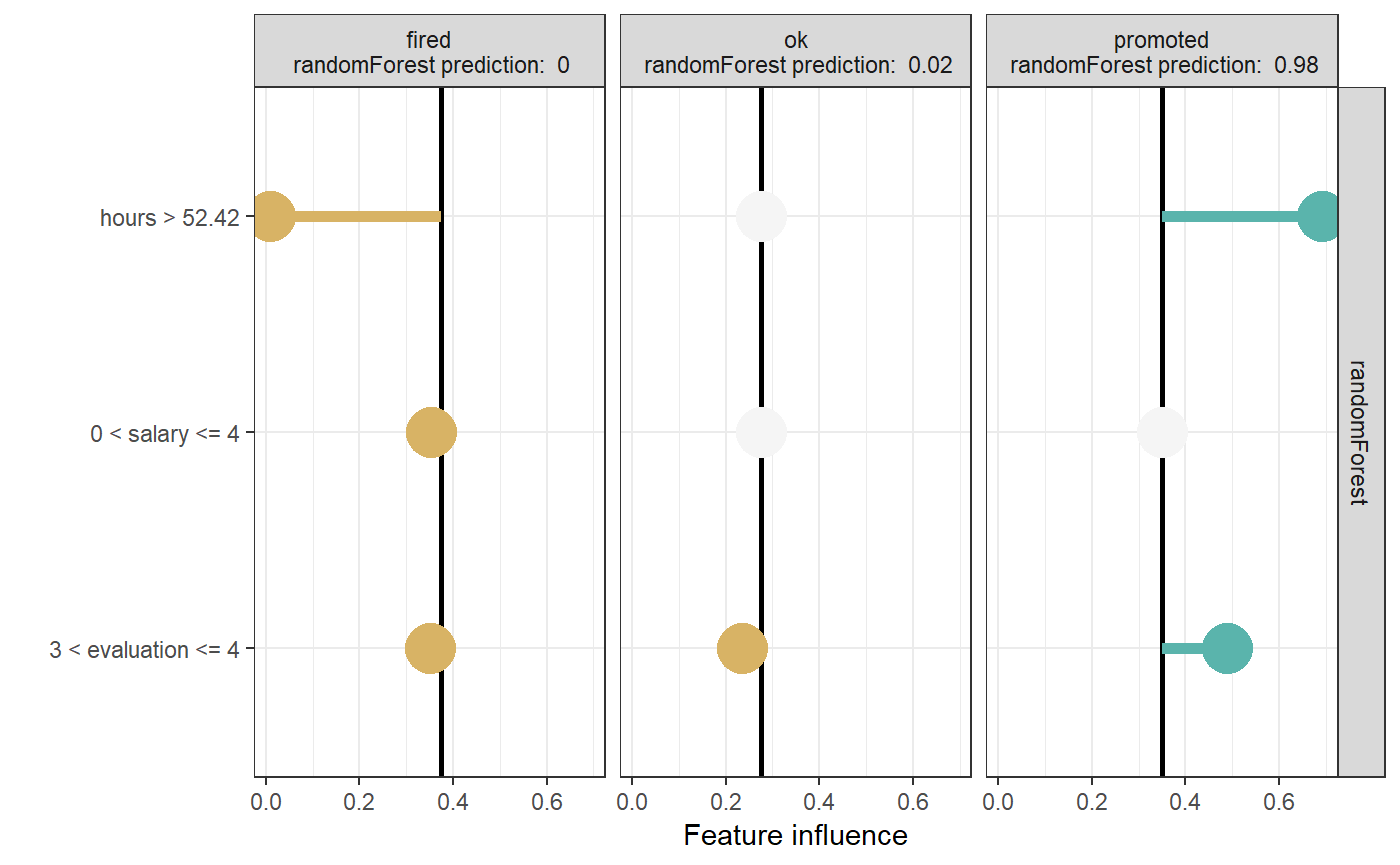
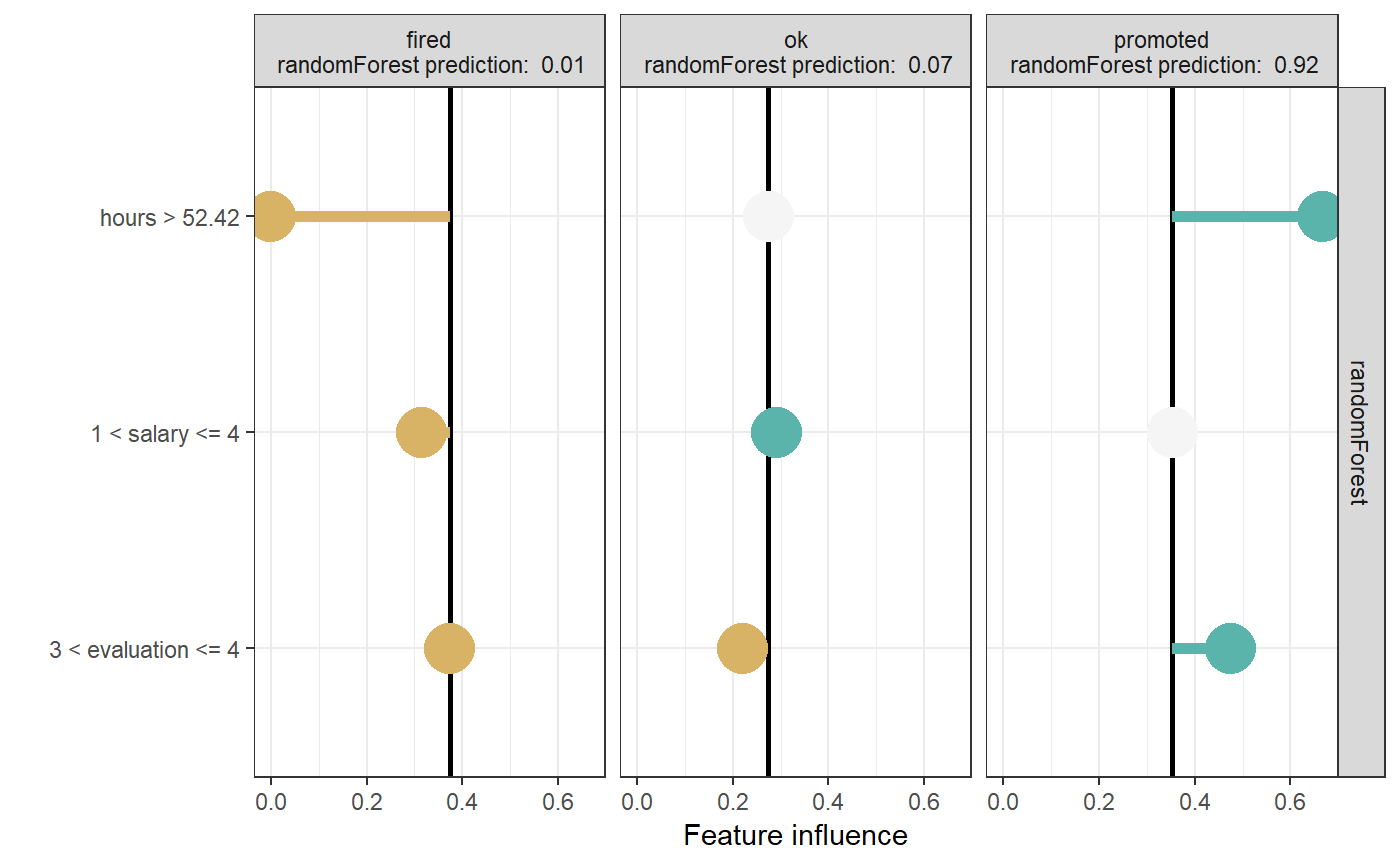
adds minor changes  to docs and plot function

diff --git a/docs/articles/regression_example.html b/docs/articles/regression_example.html
@@ -92,18 +92,19 @@
     
     
 <p>This vignette shows how <a href="https://github.com/ModelOriented/localModel"><code>localModel</code></a> package can be used to explain regression models. We will use the <code>apartments</code> dataset from <a href="https://github.com/ModelOriented/DALEX2"><code>DALEX2</code></a> package. For more information about the dataset, please refer to the <a href="https://pbiecek.github.io/DALEX_docs/">Gentle introduction to DALEX</a>.</p>
-<p>We will use <a href="https://github.com/ModelOriented/localModel"><code>localModel</code></a> and <a href="https://github.com/ModelOriented/DALEX2"><code>DALEX2</code></a> packages, random forest from <code>randomForest</code> package will serve as an example model, and linear regression as a simple model for comparison.</p>
+<p>We will need <a href="https://github.com/ModelOriented/localModel"><code>localModel</code></a> and <a href="https://github.com/ModelOriented/DALEX2"><code>DALEX2</code></a> packages. Random forest from <code>randomForest</code> package will serve as an example model, and linear regression as a simple model for comparison.</p>
 <div class="sourceCode"><pre class="sourceCode r"><code class="sourceCode r"><span class="kw">library</span>(DALEX2)
 <span class="kw">library</span>(localModel)
 <span class="kw">library</span>(randomForest)
 <span class="kw">data</span>(<span class="st">'apartments'</span>)
-<span class="kw">data</span>(<span class="st">'apartmentsTest'</span>)
+<span class="kw">data</span>(<span class="st">'apartments_test'</span>)
+<span class="kw">set.seed</span>(<span class="dv">69</span>)
 mrf &lt;-<span class="st"> </span><span class="kw">randomForest</span>(m2.price <span class="op">~</span>., <span class="dt">data =</span> apartments, <span class="dt">ntree =</span> <span class="dv">50</span>)
 mlm &lt;-<span class="st"> </span><span class="kw">lm</span>(m2.price <span class="op">~</span>., <span class="dt">data =</span> apartments)</code></pre></div>
 <p>First, we need to create an explainer object, using the <code>explain</code> function. We will explain the prediction for fifth observation in the test dataset.</p>
-<div class="sourceCode"><pre class="sourceCode r"><code class="sourceCode r">explainer &lt;-<span class="st"> </span><span class="kw">explain</span>(<span class="dt">model =</span> mrf,
+<div class="sourceCode"><pre class="sourceCode r"><code class="sourceCode r">explainer &lt;-<span class="st"> </span>DALEX2<span class="op">::</span><span class="kw"><a href="http://www.rdocumentation.org/packages/DALEX2/topics/explain">explain</a></span>(<span class="dt">model =</span> mrf,
                      <span class="dt">data =</span> apartments_test[, <span class="op">-</span><span class="dv">1</span>])
-explainer2 &lt;-<span class="st"> </span><span class="kw">explain</span>(<span class="dt">model =</span> mlm, 
+explainer2 &lt;-<span class="st"> </span>DALEX2<span class="op">::</span><span class="kw"><a href="http://www.rdocumentation.org/packages/DALEX2/topics/explain">explain</a></span>(<span class="dt">model =</span> mlm, 
                       <span class="dt">data =</span> apartments_test[, <span class="op">-</span><span class="dv">1</span>])
 new_observation &lt;-<span class="st"> </span>apartments_test[<span class="dv">5</span>, <span class="op">-</span><span class="dv">1</span>]
 new_observation
@@ -114,7 +115,7 @@ new_observation
                                         <span class="dt">size =</span> <span class="dv">500</span>, <span class="dt">seed =</span> <span class="dv">17</span>)
 model_lok2 &lt;-<span class="st"> </span><span class="kw"><a href="../reference/individual_surrogate_model.html">individual_surrogate_model</a></span>(explainer2, new_observation,
                                          <span class="dt">size =</span> <span class="dv">500</span>, <span class="dt">seed =</span> <span class="dv">17</span>)</code></pre></div>
-<p>First, local interpretable features are created. Numerical features are discretized by using decision tree to model relationship between the feature and the corresponding Ceteris Paribus profile. Categorical features are also discretized by merging levels using the marginal relationship between the feature and the model response. Then, new dataset is simulated by switching a random number of interpretable inputs in the explained instance. This procedure mimics “graying out” areas (superpixels) in the original LIME method. LASSO regression model is fitted to the model response for these new observations, which makes the final explanations sparse and thus readable.</p>
+<p>First, local interpretable features are created. Numerical features are discretized by using decision tree to model relationship between the feature and the corresponding Ceteris Paribus profile. Categorical features are also discretized by merging levels using the marginal relationship between the feature and the model response. Then, new dataset is simulated by switching a random number of interpretable inputs in the explained instance. This procedure mimics “graying out” areas (superpixels) in the original LIME method. LASSO regression model is fitted to the model response for these new observations, which makes the final explanations sparse and thus readable. More details can be found in the <em>Methodology behind localModel package</em> vignette.</p>
 <p>The explanation can be plotted using generic <code>plot</code> function. The plot shows interpretable features and weights associated with them, starting at the model intercept. Negative weights are associated with features that decrease the apartment price, while positive weights increase it. We can plot explanation for two or more models together by passing several local explainer to <code>plot</code> function.</p>
 <div class="sourceCode"><pre class="sourceCode r"><code class="sourceCode r"><span class="kw">plot</span>(model_lok, model_lok2)</code></pre></div>
 <p><img src="regression_example_files/figure-html/plot-1.png" width="700"></p>

diff --git a/docs/reference/plot.local_surrogate_explainer.html b/docs/reference/plot.local_surrogate_explainer.html
@@ -143,20 +143,20 @@ if "bar", bars will be plotted and if "arrow", arrows.</p></td>
                      <span class='kw'>data</span> <span class='kw'>=</span> <span class='no'>apartments</span>[, -<span class='fl'>1</span>])
 <span class='no'>model_lok</span> <span class='kw'>&lt;-</span> <span class='fu'><a href='individual_surrogate_model.html'>individual_surrogate_model</a></span>(<span class='no'>explainer</span>, <span class='no'>apartments</span>[<span class='fl'>5</span>, -<span class='fl'>1</span>],
                                         <span class='kw'>size</span> <span class='kw'>=</span> <span class='fl'>500</span>, <span class='kw'>seed</span> <span class='kw'>=</span> <span class='fl'>17</span>)
-<span class='no'>model_lok</span></div><div class='output co'>#&gt;     estimated                         variable original_variable response
-#&gt; 1 3485.861364                     (Model mean)                           
-#&gt; 2  127.040580                      (Intercept)                           
-#&gt; 3 -263.884418 1940 &lt; construction.year &lt;= 1994 construction.year         
-#&gt; 4 -314.118284                    surface &gt; 118           surface         
-#&gt; 5   -2.968605                   4 &lt; floor &lt;= 7             floor         
-#&gt; 6 -436.079972                     no.rooms &gt; 3          no.rooms         
-#&gt;   predicted_value        model
-#&gt; 1        3257.169 randomForest
-#&gt; 2        3257.169 randomForest
-#&gt; 3        3257.169 randomForest
-#&gt; 4        3257.169 randomForest
-#&gt; 5        3257.169 randomForest
-#&gt; 6        3257.169 randomForest</div><div class='input'><span class='fu'>plot</span>(<span class='no'>model_lok</span>)</div><div class='img'><img src='plot.local_surrogate_explainer-1.png' alt='' width='700' height='433' /></div><div class='input'>
+<span class='no'>model_lok</span></div><div class='output co'>#&gt;     estimated                         variable original_variable dev_ratio
+#&gt; 1 3485.861364                     (Model mean)                    0.797071
+#&gt; 2 3612.901944                      (Intercept)                    0.797071
+#&gt; 3 -263.884418 1940 &lt; construction.year &lt;= 1994 construction.year  0.797071
+#&gt; 4 -314.118284                    surface &gt; 118           surface  0.797071
+#&gt; 5   -2.968605                   4 &lt; floor &lt;= 7             floor  0.797071
+#&gt; 6 -436.079972                     no.rooms &gt; 3          no.rooms  0.797071
+#&gt;   response predicted_value        model
+#&gt; 1                 3257.169 randomForest
+#&gt; 2                 3257.169 randomForest
+#&gt; 3                 3257.169 randomForest
+#&gt; 4                 3257.169 randomForest
+#&gt; 5                 3257.169 randomForest
+#&gt; 6                 3257.169 randomForest</div><div class='input'><span class='fu'>plot</span>(<span class='no'>model_lok</span>)</div><div class='img'><img src='plot.local_surrogate_explainer-1.png' alt='' width='700' height='433' /></div><div class='input'>
 </div></pre>
   </div>
   <div class="col-md-3 hidden-xs hidden-sm" id="sidebar">

diff --git a/docs/reference/individual_surrogate_model.html b/docs/reference/individual_surrogate_model.html
@@ -168,20 +168,20 @@ More details about the methodology can be found in the vignettes.</p>
                      <span class='kw'>data</span> <span class='kw'>=</span> <span class='no'>apartments</span>[, -<span class='fl'>1</span>])
 <span class='no'>model_lok</span> <span class='kw'>&lt;-</span> <span class='fu'>individual_surrogate_model</span>(<span class='no'>explainer</span>, <span class='no'>apartments</span>[<span class='fl'>5</span>, -<span class='fl'>1</span>],
                                         <span class='kw'>size</span> <span class='kw'>=</span> <span class='fl'>500</span>, <span class='kw'>seed</span> <span class='kw'>=</span> <span class='fl'>17</span>)
-<span class='no'>model_lok</span></div><div class='output co'>#&gt;     estimated                         variable original_variable response
-#&gt; 1 3485.861364                     (Model mean)                           
-#&gt; 2  127.040580                      (Intercept)                           
-#&gt; 3 -263.884418 1940 &lt; construction.year &lt;= 1994 construction.year         
-#&gt; 4 -314.118284                    surface &gt; 118           surface         
-#&gt; 5   -2.968605                   4 &lt; floor &lt;= 7             floor         
-#&gt; 6 -436.079972                     no.rooms &gt; 3          no.rooms         
-#&gt;   predicted_value        model
-#&gt; 1        3257.169 randomForest
-#&gt; 2        3257.169 randomForest
-#&gt; 3        3257.169 randomForest
-#&gt; 4        3257.169 randomForest
-#&gt; 5        3257.169 randomForest
-#&gt; 6        3257.169 randomForest</div><div class='input'><span class='fu'>plot</span>(<span class='no'>model_lok</span>)</div><div class='img'><img src='individual_surrogate_model-1.png' alt='' width='700' height='433' /></div><div class='input'>
+<span class='no'>model_lok</span></div><div class='output co'>#&gt;     estimated                         variable original_variable dev_ratio
+#&gt; 1 3485.861364                     (Model mean)                    0.797071
+#&gt; 2 3612.901944                      (Intercept)                    0.797071
+#&gt; 3 -263.884418 1940 &lt; construction.year &lt;= 1994 construction.year  0.797071
+#&gt; 4 -314.118284                    surface &gt; 118           surface  0.797071
+#&gt; 5   -2.968605                   4 &lt; floor &lt;= 7             floor  0.797071
+#&gt; 6 -436.079972                     no.rooms &gt; 3          no.rooms  0.797071
+#&gt;   response predicted_value        model
+#&gt; 1                 3257.169 randomForest
+#&gt; 2                 3257.169 randomForest
+#&gt; 3                 3257.169 randomForest
+#&gt; 4                 3257.169 randomForest
+#&gt; 5                 3257.169 randomForest
+#&gt; 6                 3257.169 randomForest</div><div class='input'><span class='fu'>plot</span>(<span class='no'>model_lok</span>)</div><div class='img'><img src='individual_surrogate_model-1.png' alt='' width='700' height='433' /></div><div class='input'>
 </div></pre>
   </div>
   <div class="col-md-3 hidden-xs hidden-sm" id="sidebar">

diff --git a/docs/reference/print.local_surrogate_explainer.html b/docs/reference/print.local_surrogate_explainer.html
@@ -137,20 +137,20 @@
                      <span class='kw'>data</span> <span class='kw'>=</span> <span class='no'>apartments</span>[, -<span class='fl'>1</span>])
 <span class='no'>model_lok</span> <span class='kw'>&lt;-</span> <span class='fu'><a href='individual_surrogate_model.html'>individual_surrogate_model</a></span>(<span class='no'>explainer</span>, <span class='no'>apartments</span>[<span class='fl'>5</span>, -<span class='fl'>1</span>],
                                         <span class='kw'>size</span> <span class='kw'>=</span> <span class='fl'>500</span>, <span class='kw'>seed</span> <span class='kw'>=</span> <span class='fl'>17</span>)
-<span class='fu'>plot</span>(<span class='no'>model_lok</span>)</div><div class='img'><img src='print.local_surrogate_explainer-1.png' alt='' width='700' height='433' /></div><div class='input'><span class='no'>model_lok</span></div><div class='output co'>#&gt;     estimated                         variable original_variable response
-#&gt; 1 3485.861364                     (Model mean)                           
-#&gt; 2  127.040580                      (Intercept)                           
-#&gt; 3 -263.884418 1940 &lt; construction.year &lt;= 1994 construction.year         
-#&gt; 4 -314.118284                    surface &gt; 118           surface         
-#&gt; 5   -2.968605                   4 &lt; floor &lt;= 7             floor         
-#&gt; 6 -436.079972                     no.rooms &gt; 3          no.rooms         
-#&gt;   predicted_value        model
-#&gt; 1        3257.169 randomForest
-#&gt; 2        3257.169 randomForest
-#&gt; 3        3257.169 randomForest
-#&gt; 4        3257.169 randomForest
-#&gt; 5        3257.169 randomForest
-#&gt; 6        3257.169 randomForest</div><div class='input'>
+<span class='fu'>plot</span>(<span class='no'>model_lok</span>)</div><div class='img'><img src='print.local_surrogate_explainer-1.png' alt='' width='700' height='433' /></div><div class='input'><span class='no'>model_lok</span></div><div class='output co'>#&gt;     estimated                         variable original_variable dev_ratio
+#&gt; 1 3485.861364                     (Model mean)                    0.797071
+#&gt; 2 3612.901944                      (Intercept)                    0.797071
+#&gt; 3 -263.884418 1940 &lt; construction.year &lt;= 1994 construction.year  0.797071
+#&gt; 4 -314.118284                    surface &gt; 118           surface  0.797071
+#&gt; 5   -2.968605                   4 &lt; floor &lt;= 7             floor  0.797071
+#&gt; 6 -436.079972                     no.rooms &gt; 3          no.rooms  0.797071
+#&gt;   response predicted_value        model
+#&gt; 1                 3257.169 randomForest
+#&gt; 2                 3257.169 randomForest
+#&gt; 3                 3257.169 randomForest
+#&gt; 4                 3257.169 randomForest
+#&gt; 5                 3257.169 randomForest
+#&gt; 6                 3257.169 randomForest</div><div class='input'>
 </div></pre>
   </div>
   <div class="col-md-3 hidden-xs hidden-sm" id="sidebar">

diff --git a/docs/reference/identity_kernel.html b/docs/reference/identity_kernel.html
@@ -144,20 +144,20 @@ return a single number.</p>
                                         <span class='kw'>kernel</span> <span class='kw'>=</span> <span class='no'>identity_kernel</span>)
 <span class='co'># In this case each simulated observation has equal weight</span>
 <span class='co'># when explanation model (LASSO) is fitted.</span>
-<span class='no'>model_lok</span></div><div class='output co'>#&gt;     estimated                         variable original_variable response
-#&gt; 1 3485.861364                     (Model mean)                           
-#&gt; 2  127.040580                      (Intercept)                           
-#&gt; 3 -263.884418 1940 &lt; construction.year &lt;= 1994 construction.year         
-#&gt; 4 -314.118284                    surface &gt; 118           surface         
-#&gt; 5   -2.968605                   4 &lt; floor &lt;= 7             floor         
-#&gt; 6 -436.079972                     no.rooms &gt; 3          no.rooms         
-#&gt;   predicted_value        model
-#&gt; 1        3257.169 randomForest
-#&gt; 2        3257.169 randomForest
-#&gt; 3        3257.169 randomForest
-#&gt; 4        3257.169 randomForest
-#&gt; 5        3257.169 randomForest
-#&gt; 6        3257.169 randomForest</div><div class='input'><span class='fu'>plot</span>(<span class='no'>model_lok</span>)</div><div class='img'><img src='identity_kernel-1.png' alt='' width='700' height='433' /></div><div class='input'>
+<span class='no'>model_lok</span></div><div class='output co'>#&gt;     estimated                         variable original_variable dev_ratio
+#&gt; 1 3485.861364                     (Model mean)                    0.797071
+#&gt; 2 3612.901944                      (Intercept)                    0.797071
+#&gt; 3 -263.884418 1940 &lt; construction.year &lt;= 1994 construction.year  0.797071
+#&gt; 4 -314.118284                    surface &gt; 118           surface  0.797071
+#&gt; 5   -2.968605                   4 &lt; floor &lt;= 7             floor  0.797071
+#&gt; 6 -436.079972                     no.rooms &gt; 3          no.rooms  0.797071
+#&gt;   response predicted_value        model
+#&gt; 1                 3257.169 randomForest
+#&gt; 2                 3257.169 randomForest
+#&gt; 3                 3257.169 randomForest
+#&gt; 4                 3257.169 randomForest
+#&gt; 5                 3257.169 randomForest
+#&gt; 6                 3257.169 randomForest</div><div class='input'><span class='fu'>plot</span>(<span class='no'>model_lok</span>)</div><div class='img'><img src='identity_kernel-1.png' alt='' width='700' height='433' /></div><div class='input'>
 </div></pre>
   </div>
   <div class="col-md-3 hidden-xs hidden-sm" id="sidebar">

diff --git a/docs/reference/gaussian_kernel.html b/docs/reference/gaussian_kernel.html
@@ -145,20 +145,20 @@ return a single number.</p>
 <span class='co'># In this case each simulated observation has weight</span>
 <span class='co'># that is small when the distance from original observation is large,</span>
 <span class='co'># so closer observation have more weight.</span>
-<span class='no'>model_lok</span></div><div class='output co'>#&gt;    estimated                         variable original_variable response
-#&gt; 1 3489.34645                     (Model mean)                           
-#&gt; 2  -29.31724                      (Intercept)                           
-#&gt; 3 -247.72289 1937 &lt; construction.year &lt;= 1994 construction.year         
-#&gt; 4 -305.95905                    surface &gt; 125           surface         
-#&gt; 5  -13.13300                   4 &lt; floor &lt;= 7             floor         
-#&gt; 6 -397.39954                     no.rooms &gt; 4          no.rooms         
-#&gt;   predicted_value        model
-#&gt; 1        3078.649 randomForest
-#&gt; 2        3078.649 randomForest
-#&gt; 3        3078.649 randomForest
-#&gt; 4        3078.649 randomForest
-#&gt; 5        3078.649 randomForest
-#&gt; 6        3078.649 randomForest</div><div class='input'><span class='fu'>plot</span>(<span class='no'>model_lok</span>)</div><div class='img'><img src='gaussian_kernel-1.png' alt='' width='700' height='433' /></div><div class='input'>
+<span class='no'>model_lok</span></div><div class='output co'>#&gt;   estimated                         variable original_variable dev_ratio
+#&gt; 1 3489.3465                     (Model mean)                   0.8654636
+#&gt; 2 3460.0292                      (Intercept)                   0.8654636
+#&gt; 3 -247.7229 1937 &lt; construction.year &lt;= 1994 construction.year 0.8654636
+#&gt; 4 -305.9591                    surface &gt; 125           surface 0.8654636
+#&gt; 5  -13.1330                   4 &lt; floor &lt;= 7             floor 0.8654636
+#&gt; 6 -397.3995                     no.rooms &gt; 4          no.rooms 0.8654636
+#&gt;   response predicted_value        model
+#&gt; 1                 3078.649 randomForest
+#&gt; 2                 3078.649 randomForest
+#&gt; 3                 3078.649 randomForest
+#&gt; 4                 3078.649 randomForest
+#&gt; 5                 3078.649 randomForest
+#&gt; 6                 3078.649 randomForest</div><div class='input'><span class='fu'>plot</span>(<span class='no'>model_lok</span>)</div><div class='img'><img src='gaussian_kernel-1.png' alt='' width='700' height='433' /></div><div class='input'>
 </div></pre>
   </div>
   <div class="col-md-3 hidden-xs hidden-sm" id="sidebar">

diff --git a/docs/articles/classification_example.html b/docs/articles/classification_example.html
@@ -92,13 +92,14 @@
     
     
 <p>Explaining classification models with the <a href="https://github.com/ModelOriented/localModel"><code>localModel</code></a> package is just as simple as explaining regression. It is enough to work with predicted scores (class probabilities) rather than classes. In multiclass setting, a separate explanation is provided for each class probability.</p>
-<p>We will work with the <code>HR</code> dataset from <a href="https://github.com/ModelOriented/DALEX2"><code>DALEX2</code></a> package. As in the regression example from <em>Introduction to the localModel package</em>, we will first create a random forest model and a <a href="https://github.com/ModelOriented/DALEX2"><code>DALEX2</code></a> explainer.</p>
+<p>We will work with the <code>HR</code> dataset from <a href="https://github.com/ModelOriented/DALEX2"><code>DALEX2</code></a> package. As in the regression example from <em>Introduction to the localModel package</em>, we will first create a random forest model and a <a href="https://github.com/ModelOriented/DALEX2"><code>DALEX2</code></a> explainer. Details about the method can be found in the <em>Methodology behind localModel package</em> vignette.</p>
 <div class="sourceCode"><pre class="sourceCode r"><code class="sourceCode r"><span class="kw">library</span>(DALEX2)
 <span class="kw">library</span>(randomForest)
 <span class="kw">library</span>(localModel)
 
 <span class="kw">data</span>(<span class="st">'HR'</span>)
 
+<span class="kw">set.seed</span>(<span class="dv">17</span>)
 mrf &lt;-<span class="st"> </span><span class="kw">randomForest</span>(status <span class="op">~</span>., <span class="dt">data =</span> HR, <span class="dt">ntree =</span> <span class="dv">100</span>)
 explainer &lt;-<span class="st"> </span><span class="kw">explain</span>(mrf, 
                      HR[, <span class="op">-</span><span class="dv">6</span>])

diff --git a/docs/news/index.html b/docs/news/index.html
@@ -107,6 +107,15 @@
     </div>
 
     <div class="contents">
+    <div id="localmodel-0-3-10" class="section level1">
+<h1 class="page-header">
+<a href="#localmodel-0-3-10" class="anchor"></a>localModel 0.3.10</h1>
+<ul>
+<li>Vignettes updated. In particular, seed is now set before using randomForest.</li>
+<li>Plot function now shows a message and returns and empty plot if all effects are equal to 0.</li>
+<li>dev.ratio from glmnet is now returned as one of the columns of surrogate_model_explainer.</li>
+</ul>
+</div>
     <div id="localmodel-0-3-9" class="section level1">
 <h1 class="page-header">
 <a href="#localmodel-0-3-9" class="anchor"></a>localModel 0.3.9</h1>
@@ -297,6 +306,7 @@
     <div id="tocnav">
       <h2>Contents</h2>
       <ul class="nav nav-pills nav-stacked contents-mi2">
+        <li><a href="#localmodel-0-3-10">0.3.10</a></li>
         <li><a href="#localmodel-0-3-9">0.3.9</a></li>
         <li><a href="#localmodel-0-3-8">0.3.8</a></li>
         <li><a href="#localmodel-0-3-7">0.3.7</a></li>

diff --git a/docs/reference/index.html b/docs/reference/index.html
@@ -104,7 +104,7 @@
     <div class="page-header">
       <h1>
         Reference
-        <small>version&nbsp;0.3.9</small>
+        <small>version&nbsp;0.3.10</small>
       </h1>
     </div>
 

diff --git a/NEWS.md b/NEWS.md
@@ -1,3 +1,10 @@
+# localModel 0.3.10
+
+* Vignettes updated. In particular, seed is now set before using randomForest.
+* Plot function now shows a message and returns and empty plot if all effects
+  are equal to 0.
+* dev.ratio from glmnet is now returned as one of the columns of surrogate_model_explainer.
+
 # localModel 0.3.9
 
 * Explanation models is now fitted to raw predictions, not difference between predictions and model mean.
